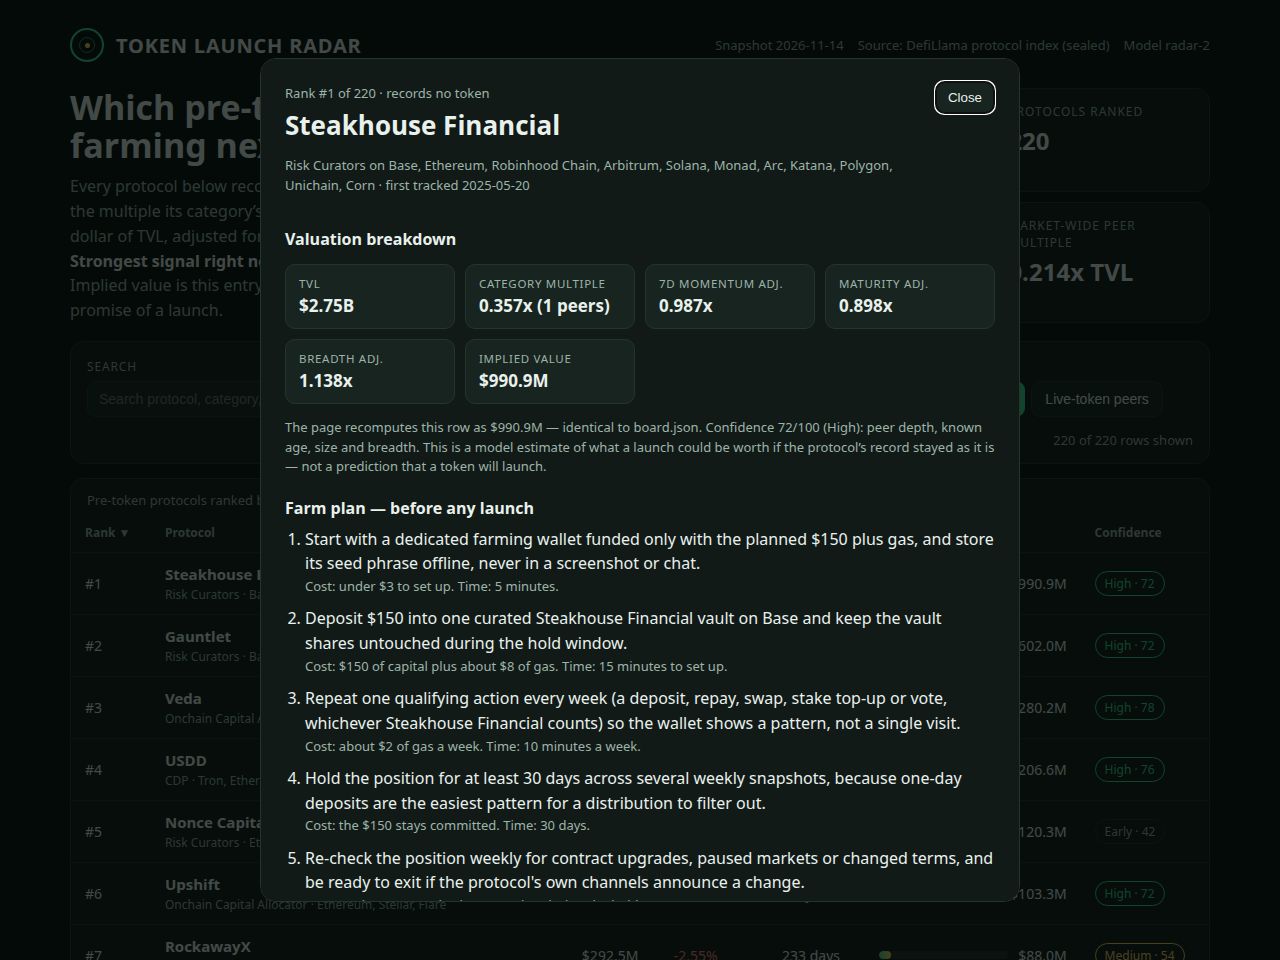
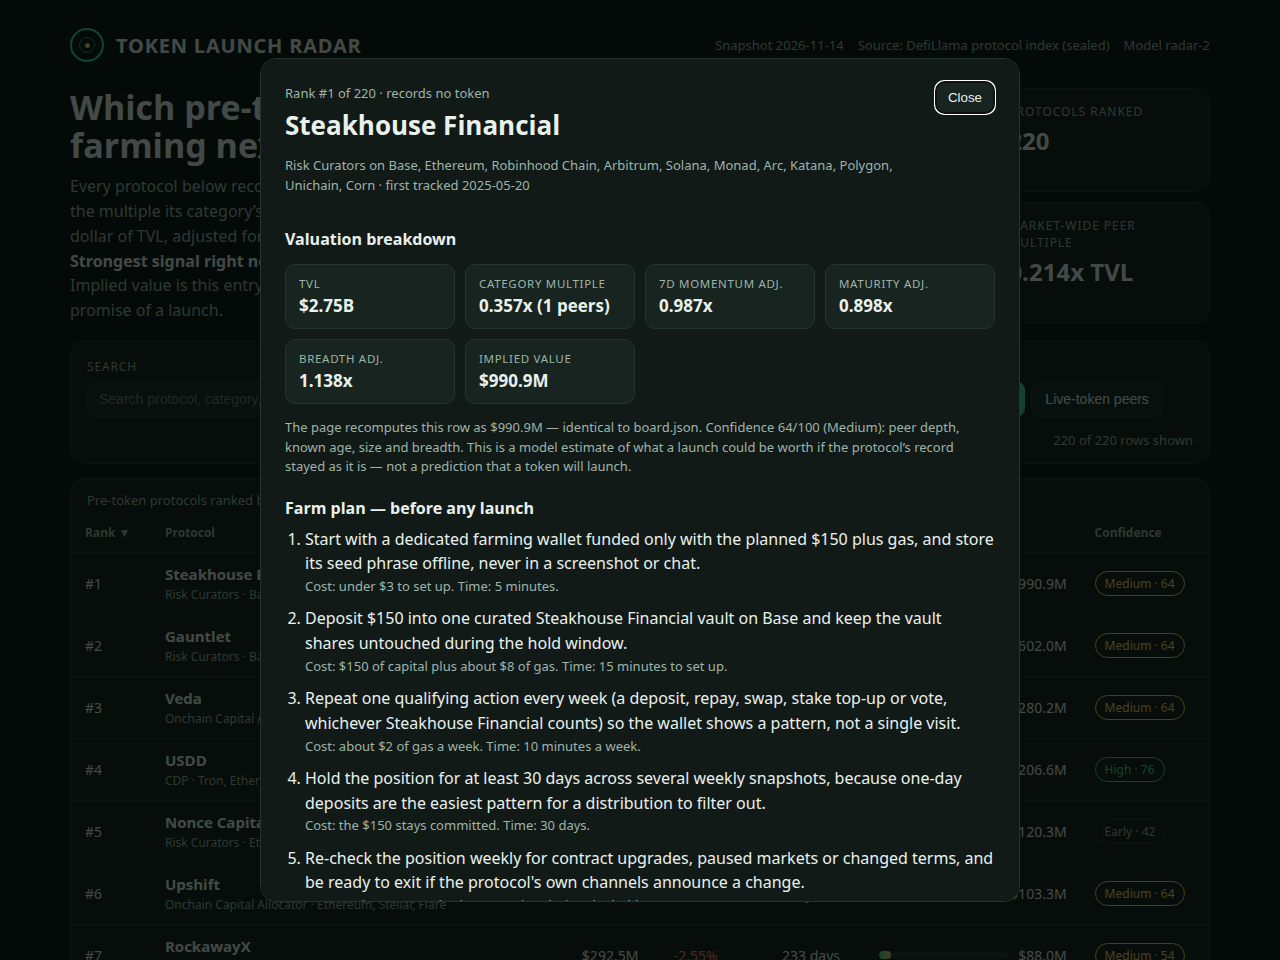
Revision: cap confidence at Medium when a category has fewer than 3 traded peers; regenerate screenshots

diff --git a/lib/model.ts b/lib/model.ts
@@ -262,6 +262,10 @@ export function scoreProtocol(
   confidence += p.tvl_usd >= 1_000_000_000 ? 20 : p.tvl_usd >= 100_000_000 ? 14 : p.tvl_usd >= 50_000_000 ? 9 : 5;
   confidence += Math.min(10, chainCount * 2);
   confidence = Math.min(98, confidence);
+  // A category priced by fewer than three traded peers rests on thin
+  // evidence no matter how large or old the protocol is: cap its
+  // confidence in the Medium band so the board never calls it High.
+  if (peers < 3) confidence = Math.min(confidence, 64);
   const tier = confidence >= 70 ? 'High' : confidence >= 50 ? 'Medium' : 'Early';
   return { implied, multiple, peers, growthPct, growthMult, maturityMult, breadthMult, age, confidence, tier };
 }

diff --git a/README.md b/README.md
@@ -55,7 +55,9 @@ already trade. This model learns from them.
 rounded to whole dollars. Every row also carries a **confidence** score
 (0–100: peer depth, known age, absolute TVL, chain breadth) with a
 High / Medium / Early tier, kept separate from value so thin-evidence
-finds are labelled, not hidden.
+finds are labelled, not hidden. A category priced by fewer than three
+traded peers is capped at 64 (Medium at best) however large the protocol
+is — one peer's price is a hint, not evidence.
 
 The board covers **all 40 watchlist protocols** (the floor: TVL ≥ $50M,
 records no token, not a wrapped/staked/bridged product of a traded
